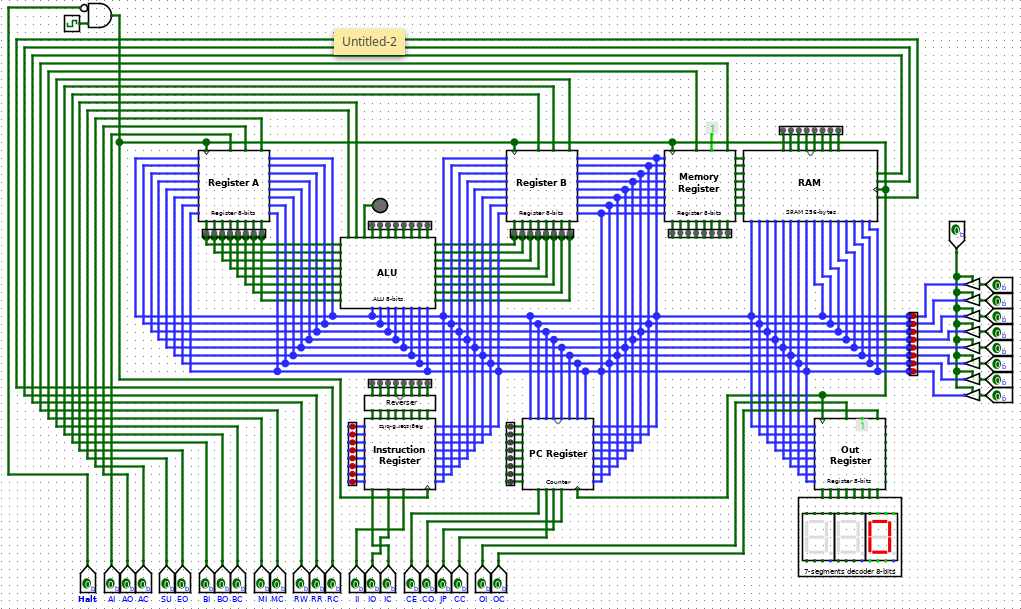
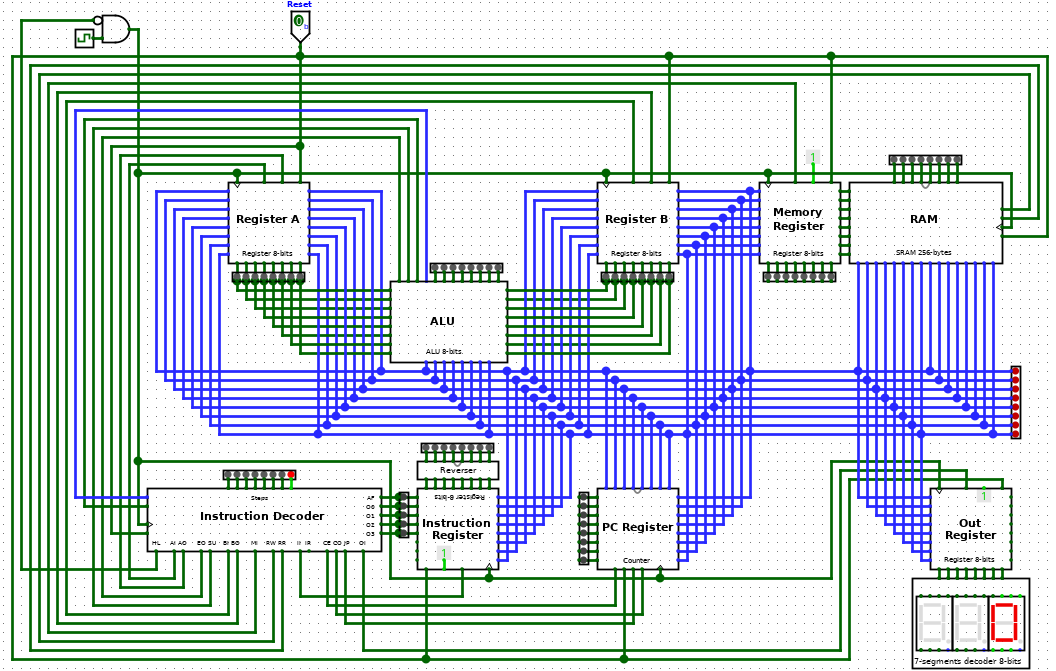
Update processor image.

diff --git a/README.md b/README.md
@@ -34,9 +34,9 @@ For future versions I will expand the circuits modules and functionalities creat
 
 This is the current processor circuit version. It's not complete yet, but it's quite cool, isn't?.
 
-![The processor](images/counting.gif)
+![The processor](images/processor.png)
 
-Is there anything missing? Yes, I know, the ~~program counter (PC)~~, instructions decoder, the ~~RAM memory~~, etc. I'll put these modules into the processor in the next versions.
+Is there anything missing? Yes, I know, the ~~program counter (PC)~~, ~~instructions decoder~~, the ~~RAM memory~~, etc. I'll put these modules into the processor in the next versions.
 
 ## The BUS
 
